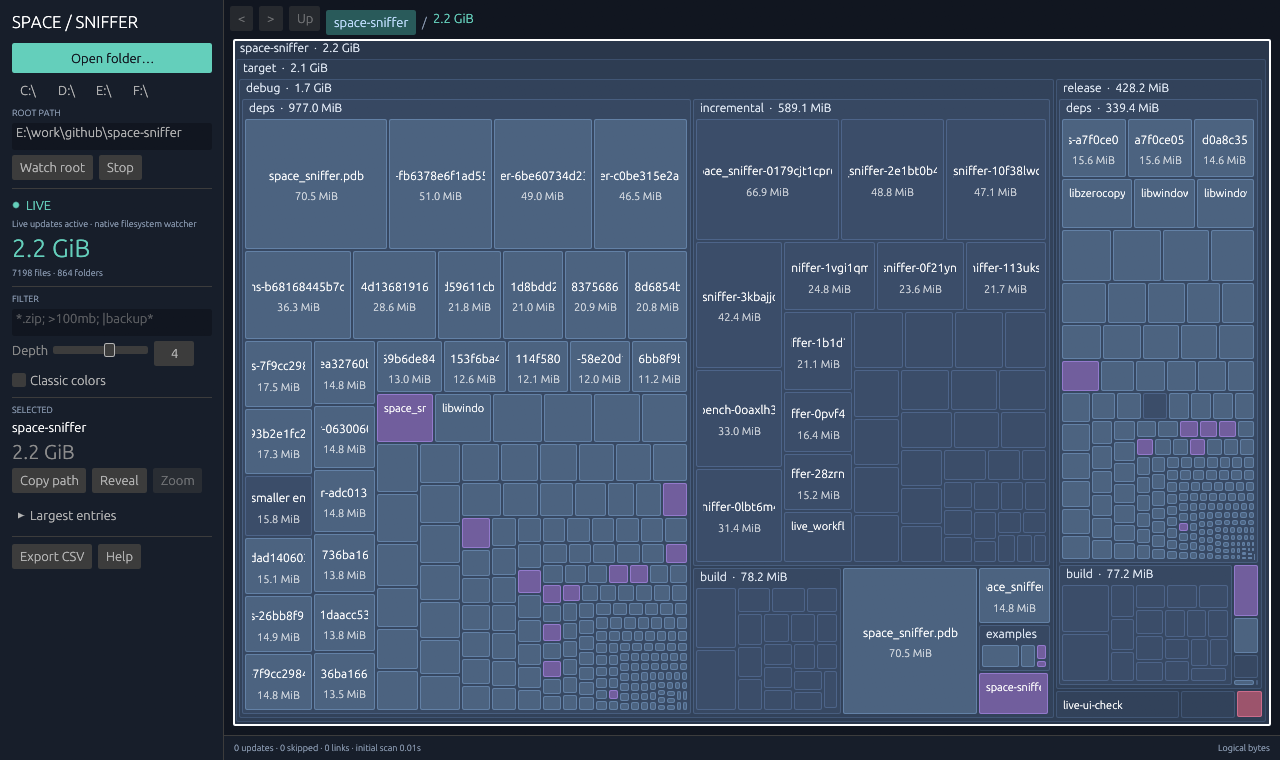
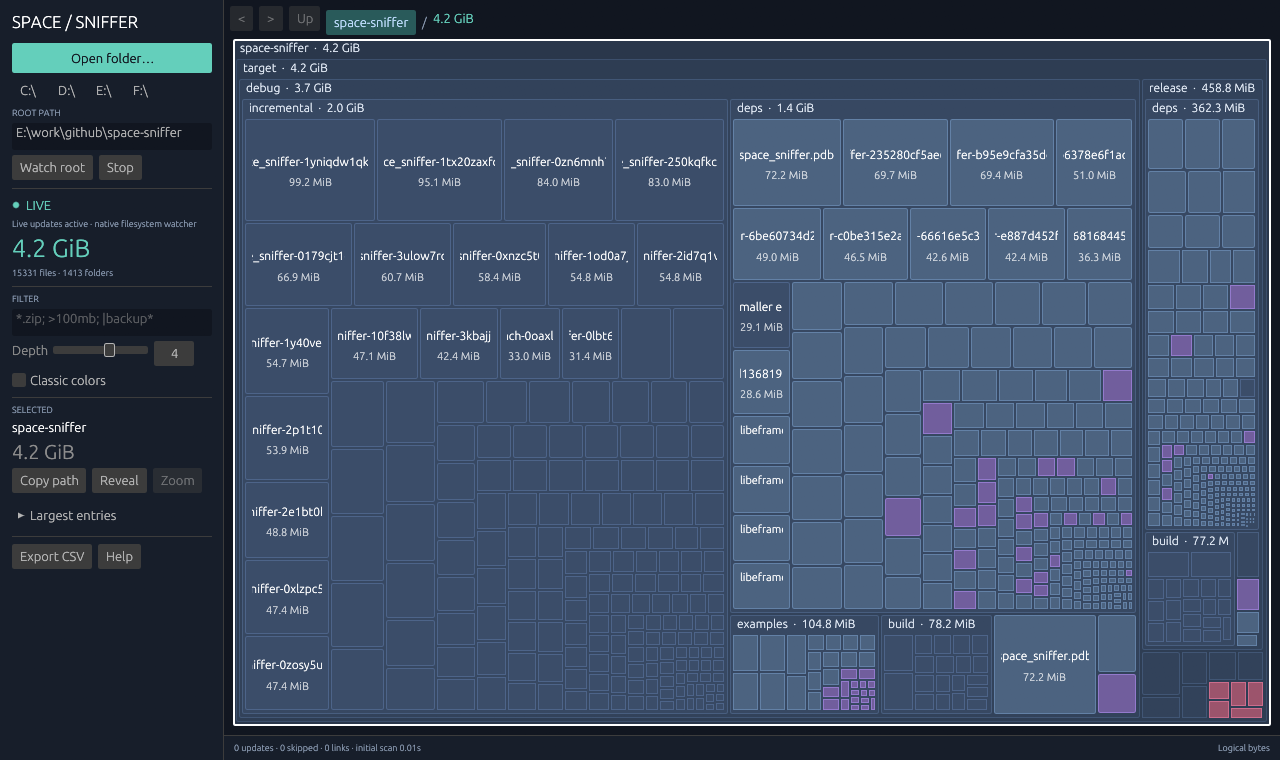
docs: record million-entry profiles and refresh the application screenshot

diff --git a/docs/architecture.md b/docs/architecture.md
@@ -1,6 +1,6 @@
 # Architecture
 
-Space Sniffer 0.3 is a native Rust disk explorer with a progressively populated initial map, parallel scanning, and automatic filesystem updates. eframe hosts egui with Glow/OpenGL; rfd supplies file dialogs. The GUI starts empty until the user chooses a drive, folder, or root path. Controls and selection details share a compact, resizable left sidebar.
+Space Sniffer 0.4 is a native Rust disk explorer with a progressively populated initial map, parallel scanning, and automatic filesystem updates. eframe hosts egui with Glow/OpenGL; rfd supplies file dialogs. The GUI starts empty until the user chooses a drive, folder, or root path. Controls and selection details share a compact, resizable left sidebar.
 
 ## Modules
 
@@ -29,7 +29,7 @@ Space Sniffer 0.3 is a native Rust disk explorer with a progressively populated 
 
 The coordinator owns the arena and statistics. Up to `min(available_parallelism, 8)` scoped workers enumerate independent directories and construct batches of at most 512 entries. Each worker has a one-job channel; a shared results channel holds at most two batches per worker. Metadata collection needs no per-file mutex. Only the coordinator merges nodes, schedules directories, and calls progress callbacks.
 
-`DirEntry::metadata()` preserves no-follow semantics and reuses cached enumeration metadata on Windows, avoiding an extra filesystem call per file. Queued directories are checked for links/reparse points again before enumeration. Sizes are aggregated and children sorted by descending size, then name/path. Worker order can change arena IDs; visible ordering and totals remain deterministic.
+`DirEntry::metadata()` preserves no-follow semantics and reuses cached enumeration metadata on Windows, avoiding an extra filesystem call per file. Queued directories are checked for links/reparse points again before enumeration. File bytes are accumulated into their direct directory during batch merging; finalization walks only discovered directories in reverse order. Children are sorted by descending size, then name/path. Wide already-ordered lists skip sorting; wide unsorted sorts cache compact size/ID entries and observed sorts retain cancellation checkpoints. Worker order can change arena IDs; visible ordering and totals remain deterministic.
 
 Progress is throttled to roughly 100 ms, including waits for directory I/O. `start_scan` bounds its public channel to two events, drops excess intermediate progress, and reliably sends completion while the receiver exists. Atomic cancellation discards the scanner's partial return value; the GUI can retain an already published preview. Job and result channels disconnect before joins on cancellation/error, releasing workers blocked by backpressure. Operating system calls already in progress cannot be interrupted. Exceptionally wide observed child lists sort in bounded runs with merge checkpoints so long final sorting remains observable and cancellable.
 
@@ -53,6 +53,8 @@ The live worker uses notify's `RecommendedWatcher`: ReadDirectoryChangesW on Win
 
 The raw notification queue is bounded to 1,024 events, output to eight events, and pending paths to 4,096. Changes coalesce after 100 ms of quiet, with a maximum 250 ms batch age during sustained writes. Access and access-time-only events are ignored to avoid loops triggered by scanning. These are batching intervals, not end-to-end latency guarantees.
 
+The GUI applies at most one tree-bearing event per frame and yields after a cooperative 4 ms status/progress budget. This leaves input and drawing opportunities between preview chunks; an individual large allocation or subtree change can still take longer.
+
 Ordinary file events inspect metadata and produce `Upsert` or `Remove`. Created, renamed, or uncertain directory events rescan only the affected subtree with `ReplaceSubtree`. Lost events, pending overflow, and explicit watcher rescan requests trigger root reconciliation.
 
 Native setup failures or runtime errors publish a status change and switch to full snapshot polling every two seconds, retrying native watching every five seconds. Unchanged polling snapshots are suppressed. Polling is a recovery mode and can be expensive on a large root; notification support and network-share behavior depend on the platform/filesystem.
@@ -60,6 +62,8 @@ Native setup failures or runtime errors publish a status change and switch to fu
 ## Incremental model
 
 `LiveTree` maintains a path-to-ID index, live-slot markers, reusable slots, the active filter, and visible-byte weights. Ordinary file changes update the leaf and its ancestors, adjust file/directory/link counters, and reposition siblings using binary search. Directory replacement walks the affected subtree. Editing a filter recomputes connected-node weights without restarting filesystem scanning.
+
+The index is split into 1,024 small hash maps, storing randomized normalized-path hashes and node IDs rather than duplicate full-path strings. Hits are verified against the actual node path; explicit collision buckets preserve distinct paths even with identical hashes. Construction caches normalized directory prefixes and processes ordered initial arenas sequentially. Sharding spreads resizing work across small maps, although the contiguous node arena can still require a large reallocation during growth.
 
 Removed slots are disconnected, zeroed, and recycled after an update batch. A live tree therefore does **not** preserve parent-before-child arena order. Live filtering traverses connected children rather than relying on static reverse-index aggregation. The UI restores selection and zoom by path because later batches can reuse removed IDs; deleted views return to a surviving ancestor.
 
@@ -75,9 +79,11 @@ Root access failures fail a scan. Unreadable, disappearing, or unsupported desce
 
 The sidebar holds root selection, status, filters, depth/colors, selection details, discovered/largest entries, and export. Changing the root starts a new session; Stop cancels scanning/watching while retaining a marked partial map when applicable. `F5` is an optional full rescan. Startup waits for root selection. CSV is enabled only after initial completion.
 
-Filters combine semicolon-separated clauses with AND. Names use case-insensitive substrings or whole-name `*`/`?` globs; `|` excludes a pattern. Strict `<` and `>` accept decimal or IEC quantities. Invalid queries retain the last valid filter. Input is debounced for 150 ms; live updates maintain weights for the active filter.
+Filters combine semicolon-separated clauses with AND. Names use case-insensitive substrings or whole-name `*`/`?` globs; `|` excludes a pattern. Strict `<` and `>` accept decimal or IEC quantities. Invalid queries retain the last valid filter. Input is debounced for 150 ms; live updates maintain weights for the active filter. ASCII matching avoids temporary lowercase/character buffers, with a Unicode fallback.
 
-`treemap::layout` accepts IDs, weights, and bounds, sorting nonzero items and computing in `f64` before returning guarded `f32` rectangles. The GUI nests layouts to the selected depth and caches geometry by view revision, bounds, zoom, and depth. Changes outside the zoomed subtree update totals without invalidating that subtree's geometry. Tiny tiles have bounded drawing work, and the largest-entry list is cached. Colors are applied while painting.
+`LiveTree::begin_filter` creates a revision-guarded `FilterJob`; bounded `step` calls build a new weight buffer without changing active weights. `commit_filter` rejects stale/incomplete jobs and atomically installs a completed result. The GUI uses 1,024-node steps and a cooperative 2 ms budget for models above 32,768 entries, pausing live-event application until completion. Ordered scans aggregate backwards; models with recycled IDs use a child-cursor postorder traversal without pushing every sibling onto a stack. Final large models with an existing filter are prepared on a worker before replacement. Old large models and stopped live receivers are released on background threads so destruction cannot stall an interaction.
+
+`treemap::layout` accepts IDs, weights, and bounds, borrowing already-ordered nonzero input when possible and computing in `f64` before returning guarded `f32` rectangles. `visible_items_with_total` uses the parent weight to select drawable children in one pass and aggregate the rest. The GUI nests layouts to the selected depth and caches geometry and colors by view revision, bounds, zoom, and depth. Changes outside the zoomed subtree update totals without invalidating that subtree's geometry. A global 8,000-tile limit reserves one slot for each pending sibling. Painting combines fill/border shapes and omits rounded corners and labels on tiny tiles. The largest-entry list caches at most 100 rows; sparse filtered lists advance through bounded child slices.
 
 ## Exports and platform actions
 

diff --git a/docs/performance.md b/docs/performance.md
@@ -1,6 +1,51 @@
 # Performance
 
-Space Sniffer 0.3 shows discovered data before the initial scan completes, while retaining parallel scanning and incremental live updates. The scanner uses up to eight directory workers and bounded batch queues. On Windows, `DirEntry::metadata()` reuses enumeration metadata; [Rust documents this optimization and its no-follow behavior](https://doc.rust-lang.org/std/fs/struct.DirEntry.html#method.metadata).
+Space Sniffer 0.4 profiles large-tree CPU costs separately from filesystem I/O. The initial map fills progressively, scanning uses up to eight directory workers, and queues stay bounded. On Windows, `DirEntry::metadata()` reuses enumeration metadata; [Rust documents this optimization and its no-follow behavior](https://doc.rust-lang.org/std/fs/struct.DirEntry.html#method.metadata).
+
+## Large-tree profiling in 0.4
+
+The following optimized Windows measurements compare 0.3.1 with the 0.4 changes. Synthetic fixtures are built in memory, without creating a million files on disk. Times exclude fixture construction and destruction unless the operation explicitly measures replacement. They do not measure cold storage, GPU work, or operating-system painting.
+
+| Operation | Before | After | Scope |
+| --- | ---: | ---: | --- |
+| Replace a million-entry UI model | 113.293 ms | 0.076 ms | UI call; old model destruction now runs on a background thread |
+| Dense 8,000-tile frame, rebuild geometry | 18.211 ms | 4.994 ms | Median of 21 CPU frames at 1920 × 1080, including egui shapes and tessellation |
+| Same dense map with cached geometry | 17.476 ms | 3.530 ms | Median of 21 CPU frames, including tessellation; not GPU presentation |
+| Million-entry glob and size filter | 164 ms | 17.3 ms | Complete in-memory model filter, measured synchronously for comparison |
+| Interactive million-entry filter | One synchronous call | 9 slices, longest 2.044 ms | Separate UI fixture; total filter CPU 17.890 ms; old weights remain visible until commit |
+| Select from a million tiny siblings | 1.646 ms | 0.681 ms | Median of 31 calls, known parent total, one aggregate tile |
+| Build a million-entry live index | 1,559 ms | 222.1 ms | Final run: median of 5 model constructions, excluding input cloning |
+| Append 8,192 discovered nodes, p95 | 6.00 ms | 3.98 ms | Streaming to one million files, including model growth |
+| Worst observed preview append | 125.24 ms | 16.46 ms | Same stream; old maximum was global index rehashing, new maximum was arena growth |
+
+The UI uses one combined fill/border shape per tile, square corners for tiny rectangles, cached colors, and no filename allocation for tiles too small to label. Its 8,000-tile cap reserves space for remaining siblings, preventing one deep branch from hiding later folders. Per-folder selection receives the already-known parent weight, makes one child pass, and returns the order geometry needs. No full-million-item geometry is constructed by the GUI. The unfiltered sidebar takes its first 100 rows directly; sparse filtered lists inspect at most 4,096 children per frame.
+
+The live path index stores randomized 64-bit hashes and node IDs in 1,024 independent shards. Actual node paths verify matches, with collision buckets preserving distinct identities. This removes the persistent extra normalized full-path allocation per entry and distributes index growth. Initial index construction reuses normalized parent prefixes. These are allocation/layout changes, not a measured total-process-memory claim. A contiguous `Vec<Node>` still occasionally grows: the 16.46 ms maximum copied the arena at 524,289 entries, from capacity 524,352 to 1,048,704. There is no hard upper bound on allocation latency or a promise that every frame stays below 16 ms. Only one tree-bearing event is applied per frame, keeping separate large chunks from accumulating in one UI turn.
+
+Above 32,768 entries, interactive filters inspect at most 1,024 nodes per step and yield after roughly 2 ms. A complete weight buffer is installed atomically. Input is still debounced; the active map remains available for inspection and navigation. Live-event application pauses while filtering so its source stays stable, then explicitly wakes delivery of queued events. Final large models with an active filter are prepared on a worker while the existing preview stays visible. A slice time is a cooperative budget, not a hard real-time deadline; allocation, scheduling, and a single expensive filename match can exceed it.
+
+The scanner now folds direct file bytes during batch merging, finalizes only directories, skips sorting already-ordered wide child lists, and caches compact size/ID sort entries for wide unsorted lists. Five rotated in-memory million-file runs gave these **finalization-phase medians**, excluding filesystem traversal and UI work:
+
+| Shape, observed scanner | 0.3.1 | 0.4 |
+| --- | ---: | ---: |
+| Flat, equal sizes and ordered names | 62.342 ms | 8.712 ms |
+| Flat, random sizes | 226.933 ms | 72.394 ms |
+| 1,000 directories, random sizes | 59.123 ms | 33.831 ms |
+
+Complete read-only scans of an existing Rust documentation tree (51,948 files, 1,447 directories, 657,292,993 logical bytes) improved more modestly: observed-scanner median **24.544 → 23.631 ms**, ordinary-scanner median **24.019 → 22.871 ms**, across eight rotated warm-metadata runs. Totals were identical. This is not a whole-drive result. Wide unsorted sorting uses temporary 16-byte-per-child buffers for ordinary scans or 32 bytes per child with observed merging; ordered wide directories avoid those buffers. Storage and antivirus settings were not controlled.
+
+Reproduce the CPU measurements from the repository root:
+
+```sh
+cargo test --locked --release --bin space-sniffer profile_million -- --ignored --nocapture
+cargo test --locked --release --bin space-sniffer profile_dense -- --ignored --nocapture
+cargo run --locked --release --example map_scale_bench
+cargo run --locked --release --example model_scale_bench -- 1000000 3
+cargo run --locked --release --example scanner_scale_bench -- 1000000 5
+cargo run --locked --release --example scanner_scale_bench -- --path EXISTING_DIRECTORY 8
+```
+
+The map benchmark includes a frozen 0.3.1 selector for same-process comparisons and checks byte/count equivalence. Dense GUI tests include shape creation and CPU tessellation; selector-only timings do not. The scanner benchmark measures finalization or a complete read-only scan depending on its arguments. Large subtree replacement, native-watcher setup, OS paint latency, true cold-cache disk throughput, and total process memory require separate measurement.
 
 ## Measured initial scans
 

diff --git a/README.md b/README.md
@@ -22,7 +22,7 @@ This is an independent implementation inspired by [SpaceSniffer by Uderzo Softwa
 - Drive shortcuts, a root path field, and an empty start screen until you choose a location.
 - A command-line scan summary without opening a window.
 
-On a generated 20,000-file Windows fixture with warm metadata, the scanner improved from **292.89 ms to 10.61 ms** versus the previous serial implementation. This measures traversal, metadata, and sorting in an optimized standalone harness; it is not a whole-drive or cold-cache guarantee. See [methodology and results](docs/performance.md).
+Large-tree work is measured separately from disk I/O: million-entry filtering runs in short UI slices, and the map aggregates small files instead of drawing millions of rectangles. A dense 8,000-tile CPU frame benchmark improved from roughly **18 ms to 5 ms**. See [benchmarks, methodology, and limits](docs/performance.md); these are local CPU measurements, not whole-drive or frame-rate guarantees.
 
 Scanning reads filesystem metadata. The app has no file deletion feature or telemetry. Export writes only the report you choose to save.
 
@@ -87,6 +87,8 @@ During scanning, **Discovered so far** counts only data already shown on the map
 **Stop** cancels scanning or watching and keeps the current map. A stopped initial scan remains explicitly marked **Partial map**. **Export CSV** becomes available after the initial scan completes, so a preview cannot be mistaken for a full report. Restart the root or use an optional full rescan to finish a stopped scan.
 
 The left sidebar contains root selection, watcher status, filters, depth, colors, selection details, and export. **LIVE** indicates an active native watcher; status messages explain recovery or fallback behavior. The map is cached between relevant changes, and an idle watcher does not continuously redraw the window.
+
+Large filters show **Filtering** progress while the previous filter stays visible. File events wait in a bounded queue until the result is installed; filesystem scanning continues. Small entries are grouped into a tile showing their combined bytes and count. Zoom or filter to inspect them.
 
 | Control | Action |
 | --- | --- |

diff --git a/CONTRIBUTING.md b/CONTRIBUTING.md
@@ -39,6 +39,8 @@ While a large first scan is running, inspect, zoom, and filter the partial map. 
 
 For filter or export changes, verify a combined query such as `*.zip; >100MB; |backup*`, invalid input retaining the previous filter, and an exported subtree containing both original and visible byte counts. CSV must keep its quoting and spreadsheet formula protections.
 
+For responsiveness changes, run the ignored release-mode `profile_million` and `profile_dense` binary tests, plus the map/model/scanner scale examples listed in [performance notes](docs/performance.md). Record median, tail latency, fixture shape, and what the timer includes. Check filters commit atomically, queued changes resume without another file notification, and every top-level folder remains represented at the tile cap. Keep cold-cache, filesystem traversal, CPU geometry/tessellation, and OS painting claims separate.
+
 Compare one scanner worker with multiple workers on flat, broad, and deep trees. Progress callbacks must stay on the coordinator thread, queues must remain bounded, and cancellation must release workers blocked by backpressure. The [scanner benchmark](examples/scan_bench.rs) and [performance notes](docs/performance.md) describe reproducible runs. State cache conditions and storage type: creating a fixture does not produce a cold cache, and parallel access is not always faster on a hard drive.
 
 For live-update changes, verify totals, matching weights, file/directory/link counts, rename pairs, new subdirectories, root replacement, watcher overflow, and recovery. Avoid full-tree work for a single file update. Removed arena slots can be reused: preserve UI selection by path, and do not assume live parents precede children. Watcher events should wake the UI; an unchanged idle session should not request continuous redraws.
